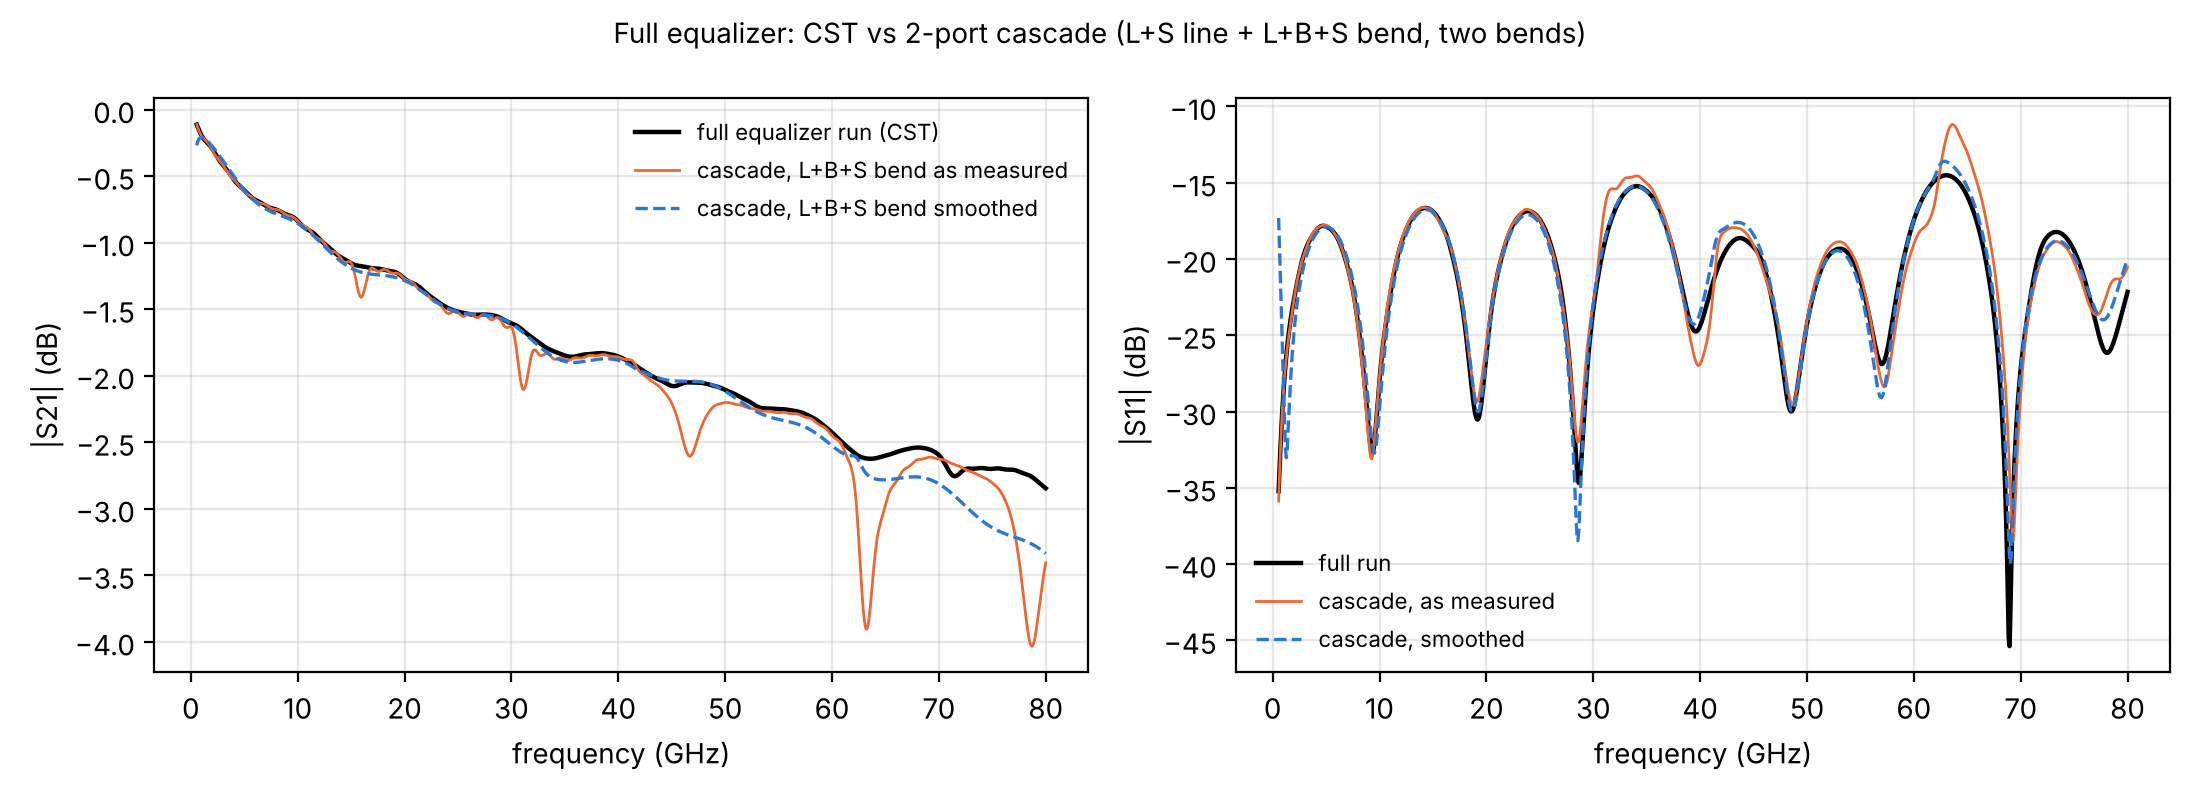
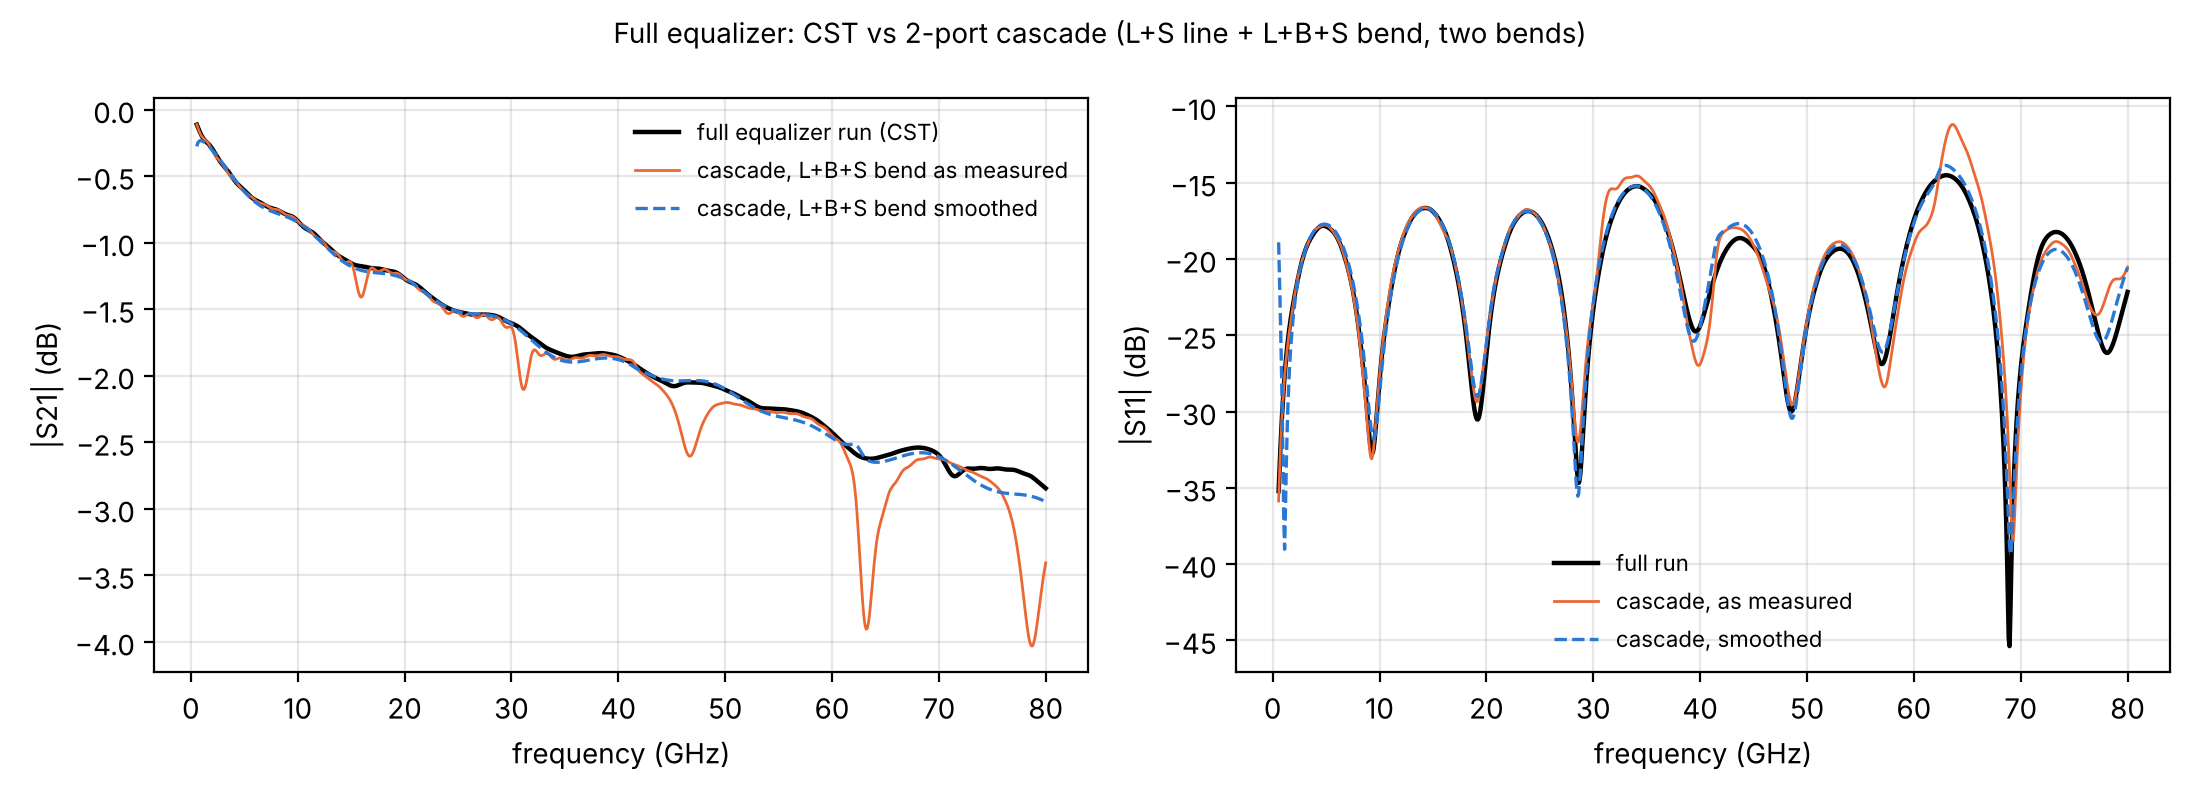
Equalization cascade test: also exclude the 63 and 79 GHz resonances from the bend smoothing
Claude-Session: https://claude.ai/code/session_01PF7RKNjFsSkyjm1syGCUrV

diff --git a/docs/cst/Equalization/analysis/cascade_test.py b/docs/cst/Equalization/analysis/cascade_test.py
@@ -1,7 +1,7 @@
 """Full equalizer rebuilt as a 2-port cascade: T = T_line(2.70) B T_line(1.44) B T_line(1.44), 50 ohm ports.
 Line: L+S touchstone extraction (raw alpha, n_m, Zc). Bend B: 2-port from L+B+S, B = T(2.16)^-1 T_LBS T(1.08)^-1
 (route (c) of lbs_bend.py), (i) as measured, dips included; (ii) smoothed: |S21| dB, delay and S11 of B
-replaced by a cubic fit in f over the bands outside the dips (14-18, 29-33, 44-50 GHz excluded).
+replaced by a cubic fit in f over the bands outside the dips (14-18, 29-33, 44-50, 60-67, >75 GHz excluded: resonances of the ground-to-ground mode at 16, 31, 47, 63, 79 GHz).
 Compared with the full-equalizer touchstone. Outputs: cascade_test.png, printed table."""
 import os, sys
 HERE = os.path.dirname(os.path.abspath(__file__)); sys.path.insert(0, os.path.abspath(os.path.join(HERE, "../../../..")))
@@ -23,7 +23,7 @@ inv = np.linalg.inv; A = lambda n: rf.network.s2a(n.s[k], 50.0)
 B = inv(T(2.16e-3)) @ A(nLBS) @ inv(T(1.08e-3))
 # smoothed bend: S-params of B referenced to Zc, fit outside the dips
 S = np.array([rf.network.a2s(B[i:i+1], Z[i])[0] for i in range(len(f))])
-ok = ~(((f > 14) & (f < 18)) | ((f > 29) & (f < 33)) | ((f > 44) & (f < 50)))
+ok = ~(((f > 14) & (f < 18)) | ((f > 29) & (f < 33)) | ((f > 44) & (f < 50)) | ((f > 60) & (f < 67)) | (f > 75))
 def sm(y): return np.polyval(np.polyfit(f[ok], y[ok], 3), f)
 mag = 10 ** (sm(20 * np.log10(abs(S[:, 1, 0]))) / 20); ph = sm(np.unwrap(np.angle(S[:, 1, 0])))
 s11 = sm(S[:, 0, 0].real) + 1j * sm(S[:, 0, 0].imag)
